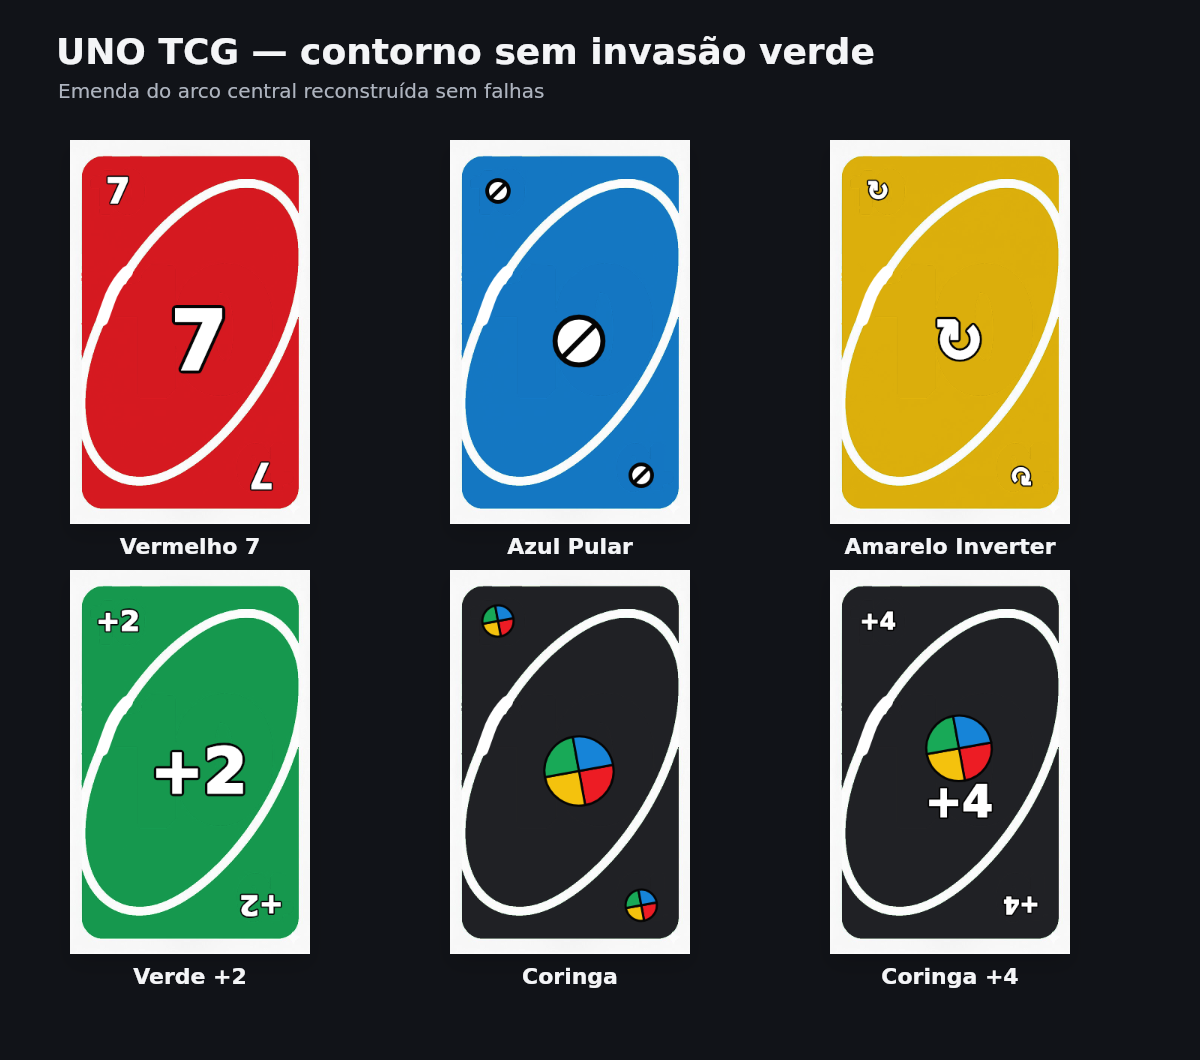
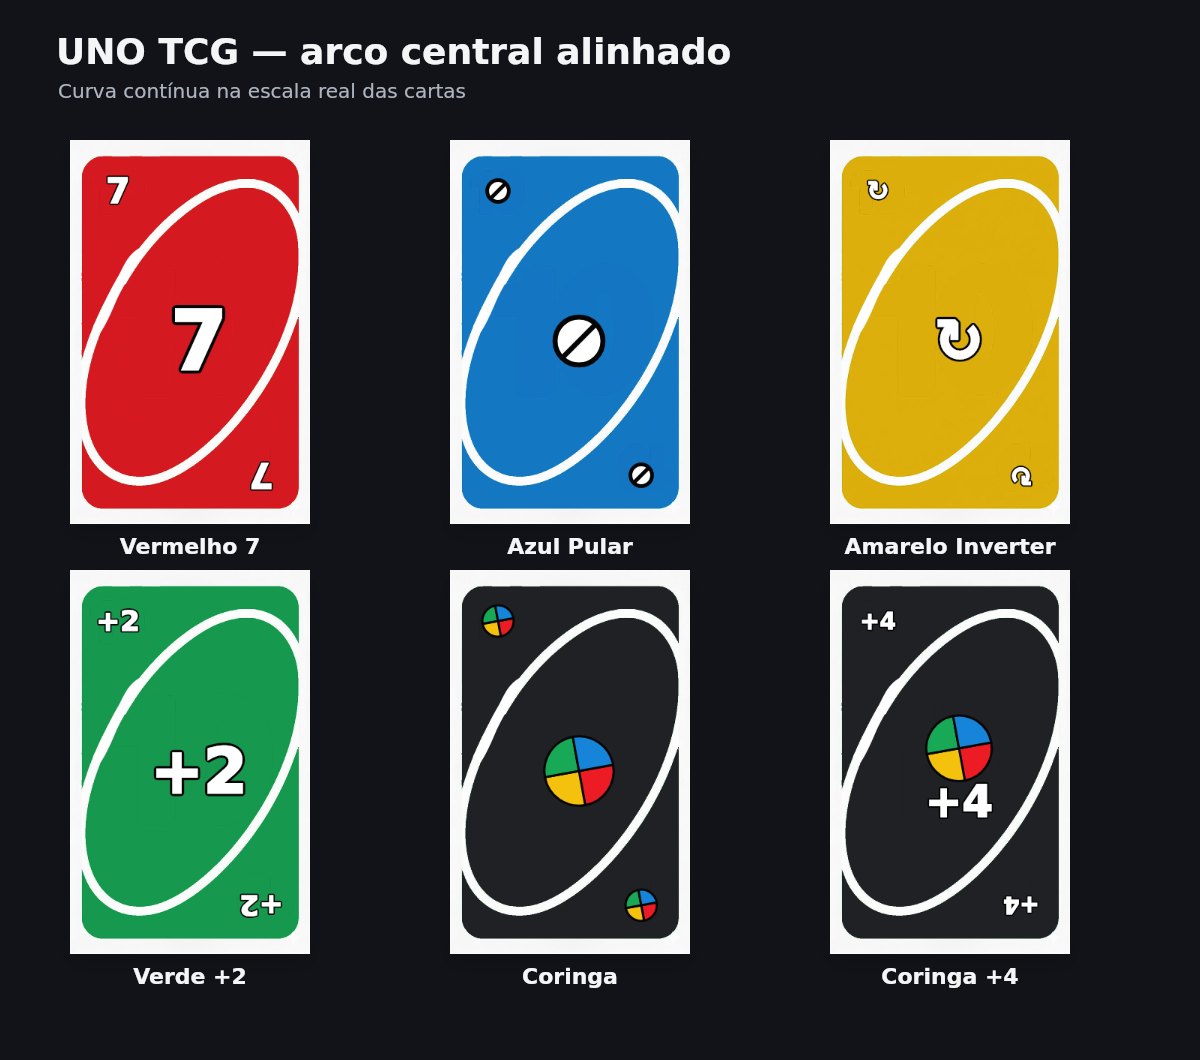
Update Uno card visual assets and rendering logic
Replit-Commit-Author: Agent

diff --git a/discord-bot/src/utils/unoVisuals.js b/discord-bot/src/utils/unoVisuals.js
@@ -266,13 +266,14 @@ function drawGlyph(ctx, card, x, y, size, rotation = 0) {
 function repairCenterContour(ctx) {
   ctx.save();
   ctx.strokeStyle = '#ffffff';
-  ctx.lineWidth = 16;
-  ctx.lineCap = 'round';
+  ctx.lineWidth = 13;
+  ctx.lineCap = 'butt';
   ctx.lineJoin = 'round';
   ctx.beginPath();
-  ctx.moveTo(76, 176);
-  ctx.bezierCurveTo(66, 186, 60, 196, 55, 207);
-  ctx.bezierCurveTo(51, 217, 47, 229, 43, 240);
+  ctx.moveTo(95, 150);
+  ctx.bezierCurveTo(83, 157, 78, 169, 72, 181);
+  ctx.bezierCurveTo(66, 192, 59, 203, 54, 216);
+  ctx.bezierCurveTo(48, 230, 43, 242, 36, 252);
   ctx.stroke();
   ctx.restore();
 }
